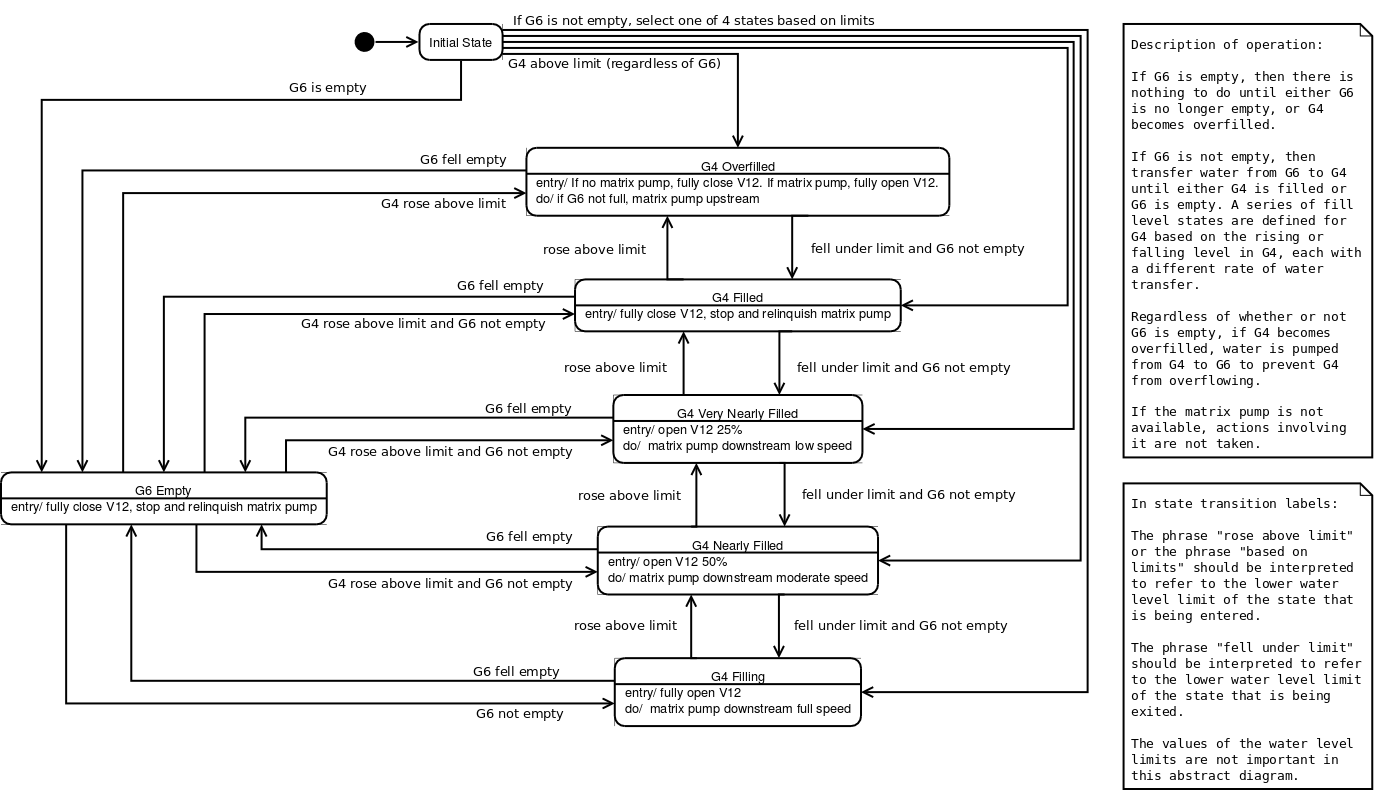
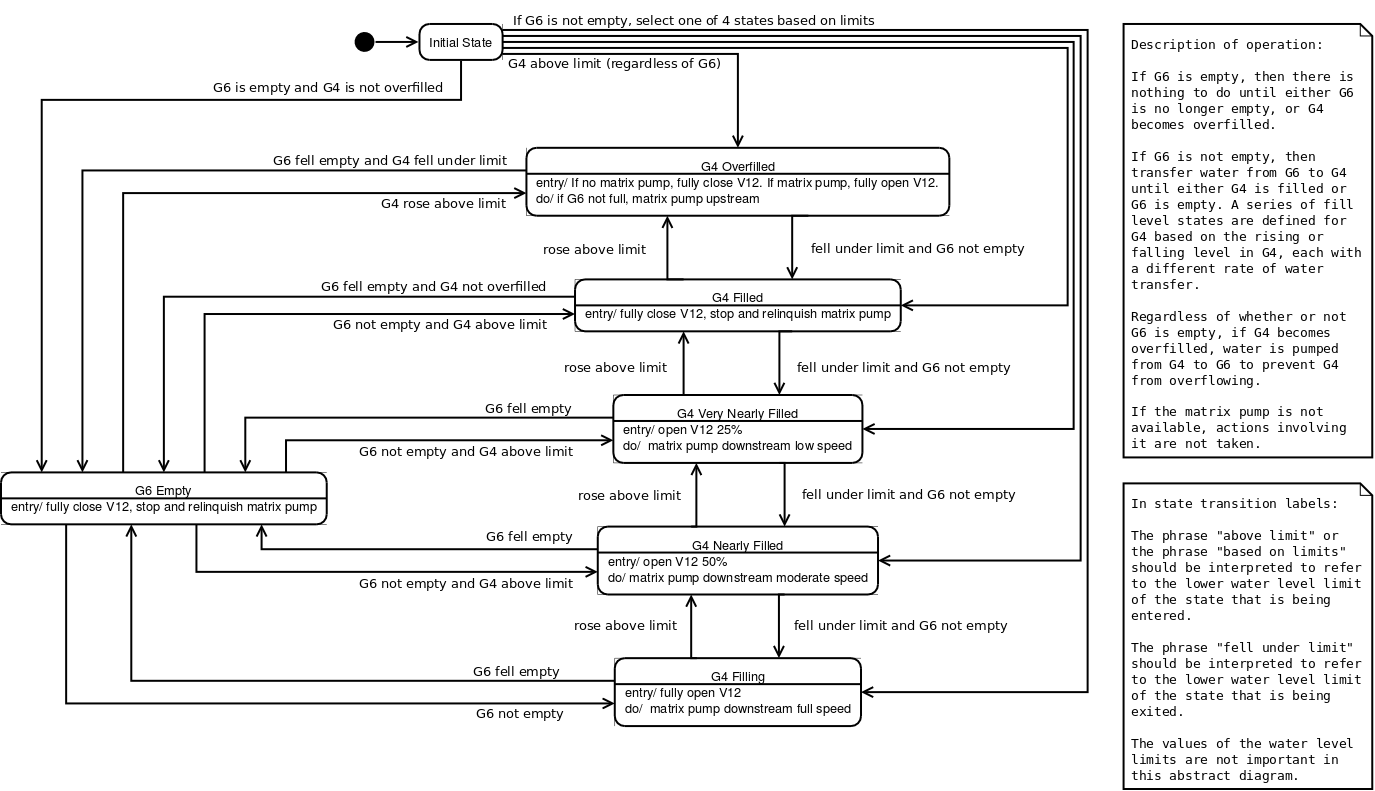
Bugfixes to Stage Pi logic after initial unit testing
Stage Pi state diagram updated to clarify that "G4 Overfilled" takes precedence over
"G6 Empty" when either state could be transitioned into.

Named water levels have been parameterised in StagePiReadingsParser. This makes it easier
to adjust their values (e.g. to make the more realistic after examining real sensor
readings). It also enables the unit tests to be agnostic about the specific values.

Added comment heading the control state machine, to match the comment heading the control
states, so that the the control state machine does not appear at a glance to be listed
under the heading "control states".

Bugs fixed:
* G4:FS1 was added to the readings parser. For some reason this was originally omitted.
* Fixed incorrect character case in boolean constants in g6Empty() and g6Full().
* Fixed incorrect logic in all g4X() methods.
* Fixed incorrect state transition logic in StagePiG4OverfilledState.
* Fixed incorrect state transition logic in StagePiG4FilledState.
* StagePiG6EmptyState was calling self.csm.setState; now self.csm.setStateBy.

diff --git a/Logic/stagepilogic.py b/Logic/stagepilogic.py
@@ -31,7 +31,11 @@ import logging
 import sys
 import os.path
 
-sys.path.insert(0, os.path.abspath('..'))
+# Add root of rivercontrolsystem to path
+# this was done using sys.path.insert(0, os.path.abspath('..'))
+# but that doesn't work when running unit tests. This does:
+sys.path.insert(0, os.path.abspath(os.path.split(os.path.dirname(__file__))[0]))
+
 
 from Tools import logiccoretools
 from Tools.statetools import ControlStateABC, ControlStateMachineABC
@@ -53,6 +57,27 @@ Used by the stagepi_control_logic function.
 Initialised by the stagepi_control_logic_setup function.
 """
 
+levels = { 
+    "G6Full": 975,
+    "G6NotEmpty": 25,
+    "G4Overfull": 975,
+    "G4Full": 900,
+    "G4VeryNearlyFull": 800,
+    "G4NearlyFull": 700
+    }
+"""
+The levels variable parameterises the relationship between measured
+water level and the set of named water levels used by the Stage Pi
+logic.
+
+This variable is used in testing the logic.
+
+All of the levels defined here are inclusive lower bounds for the named
+levels. The (exclusive) upper bound for each level is implicitly
+defined by the lower bound for the next level up (considering levels in
+the same butts group).
+"""
+
 class StagePiReadingsParser():
     """
     This class extracts data from sensor readings and presents it
@@ -70,6 +95,7 @@ class StagePiReadingsParser():
         try:
             G4M0 =  logiccoretools.get_latest_reading("G4", "M0").get_value()
             G4FS0 = logiccoretools.get_latest_reading("G4", "FS0").get_value()
+            G4FS1 = logiccoretools.get_latest_reading("G4", "FS1").get_value()
             G6M0 =  logiccoretools.get_latest_reading("G6", "M0").get_value()
             G6FS0 = logiccoretools.get_latest_reading("G6", "FS0").get_value()
             G6FS1 = logiccoretools.get_latest_reading("G6", "FS1").get_value()
@@ -82,12 +108,14 @@ class StagePiReadingsParser():
         
         #Check that the float switch readings are sane.
         assert G4FS0 in ("True", "False")
+        assert G4FS1 in ("True", "False")
         assert G6FS0 in ("True", "False")
         assert G6FS1 in ("True", "False")
         
         #Load readings into self
         self.G4_level = int(G4M0.replace("m", ""))
         self.G4_full = G4FS0 == "True"
+        self.G4_empty = G4FS1 == "True"
         
         self.G6_level = int(G6M0.replace("m", ""))
         self.G6_full = G6FS0 == "True"
@@ -118,9 +146,9 @@ class StagePiReadingsParser():
         """
         Returns true if G6 is full
         """
-        if(self.G6_full or self.G6_level > 975):
+        if(self.G6_full or self.G6_level >= levels["G6Full"]):
             if(self.G6_empty == False):
-                return true
+                return True
             else:
                 self._g6sensorContradictionError()
                 
@@ -129,15 +157,15 @@ class StagePiReadingsParser():
                 #actually need to know whether G6 is full.
                 raise ValueError("G6 sensor values contradict")
         else:
-            return false
+            return False
     
     def g6Empty(self):
         """
         Returns true if G6 is empty (<25mm)
         """
-        if(self.G6_empty or self.G6_level <= 25):
+        if(self.G6_empty or self.G6_level < levels["G6NotEmpty"]):
             if(self.G6_full == False):
-                return true
+                return True
             else:
                 self._g6sensorContradictionError()
                 
@@ -146,31 +174,39 @@ class StagePiReadingsParser():
                 #actually need to know whether G6 is empty.
                 raise ValueError("G6 sensor values contradict")
         else:
-            return false
+            return False
     
     def g4Overfull(self):
         """
         Returns true if G4 is overfull (full to the limit)
         """
-        return (self.G4_full or self.G4_level > 975)
+        return (not self.G4_empty
+                and (self.G4_full or
+                     self.G4_level >= levels["G4Overfull"]))
     
     def g4FullOrMore(self):
         """
         Returns true if G4 is full or more (>900mm)
         """
-        return (not self.G4_full or self.G4_level > 900)
+        return (not self.G4_empty
+                and (self.G4_full or
+                     self.G4_level >= levels["G4Full"]))
     
     def g4VeryNearlyFullOrMore(self):
         """
         Returns true if G4 level is very nearly full or more (>800mm)
         """
-        return (not self.G4_full and self.G4_level > 800)
+        return (not self.G4_empty
+                and (self.G4_full or
+                     self.G4_level >= levels["G4VeryNearlyFull"]))
     
     def g4NearlyFullOrMore(self):
         """
         Returns true if G4 level is nearly full or more (>700mm)
         """
-        return (not self.G4_full and self.G4_level > 700)
+        return (not self.G4_empty
+                and (self.G4_full or
+                     self.G4_level >= levels["G4NearlyFull"]))
 
 # -------------------- Stage Pi control states ---------------------
 # Each state class defines the behaviour of the control logic in that state,
@@ -280,12 +316,16 @@ class StagePiG4OverfilledState(ControlStateABC):
         
         try:
             #Evaluate possible transitions to new states
-            if not parser.g6Empty():
-                if not parser.g4Overfull():
+            if not parser.g4Overfull():
+                if not parser.g6Empty():
                     ri = self.csm.setStateBy(StagePiG4FilledState, self)
-                    
-            #In the event that G6 is empty, then we want to stay in
-            #G4OverfilledState, so that water can be pumped back into G6.
+                else:
+                    ri = self.csm.setStateBy(StagePiG6EmptyState, self)
+            
+            #G4 being overfull overrides G6 being empty. If G6 is empty
+            #and G4 is still overfilled, then we want to stay in
+            #G4OverfilledState, so that water can be pumped back into
+            #G6.
             
         except ValueError:
             msg = ("Could not parse sensor readings. Control logic is "
@@ -338,16 +378,21 @@ class StagePiG4FilledState(ControlStateABC):
         
         try:
             #Evaluate possible transitions to new states
-            if not parser.g6Empty():
-                if parser.g4Overfull():
-                    ri = self.csm.setStateBy(StagePiG4OverfilledState, self)
-                    
-                elif not parser.g4FullOrMore():
-                    ri = self.csm.setStateBy(StagePiG4VeryNearlyFilledState,
-                                             self)
-                
-            else:
+            if parser.g4Overfull():
+                #If "overfull", unconditionally go into G4OverfilledState
+                ri = self.csm.setStateBy(StagePiG4OverfilledState, self)
+            
+            elif parser.g6Empty():
+                #If G6 empty and G4 not overfull go into G6EmptyState
                 ri = self.csm.setStateBy(StagePiG6EmptyState, self)
+                
+            elif not parser.g4FullOrMore():
+                #If G4 is no longer "full" and G6 is not empty and G4
+                #is not overfilled, then go into G4VeryNearlyFilledState
+                ri = self.csm.setStateBy(StagePiG4VeryNearlyFilledState,
+                                         self)
+            
+            #else: G4 must be "full", so stay in this state.
         
         except ValueError:
             msg = ("Could not parse sensor readings. Control logic is "
@@ -601,7 +646,7 @@ class StagePiG6EmptyState(ControlStateABC):
             #Unlike the other four states, we can enter G4OverfilledState even if
             #G6 remains empty
             if(parser.g4Overfull()):
-                ri = self.csm.setState(StagePiG4OverfilledState)
+                ri = self.csm.setStateBy(StagePiG4OverfilledState, self)
             
             #If G6 is no longer empty, enter the appropriate filling state for
             #the current G4 fill level
@@ -626,6 +671,10 @@ class StagePiG6EmptyState(ControlStateABC):
             logger.error(msg)
         
         return ri
+
+# ---------------- Stage Pi control state machine ------------------
+# The control state machine class (StagePiControlLogic) defines the
+# state machine within which the control states exist.
 
 class StagePiControlLogic(ControlStateMachineABC):
     """
